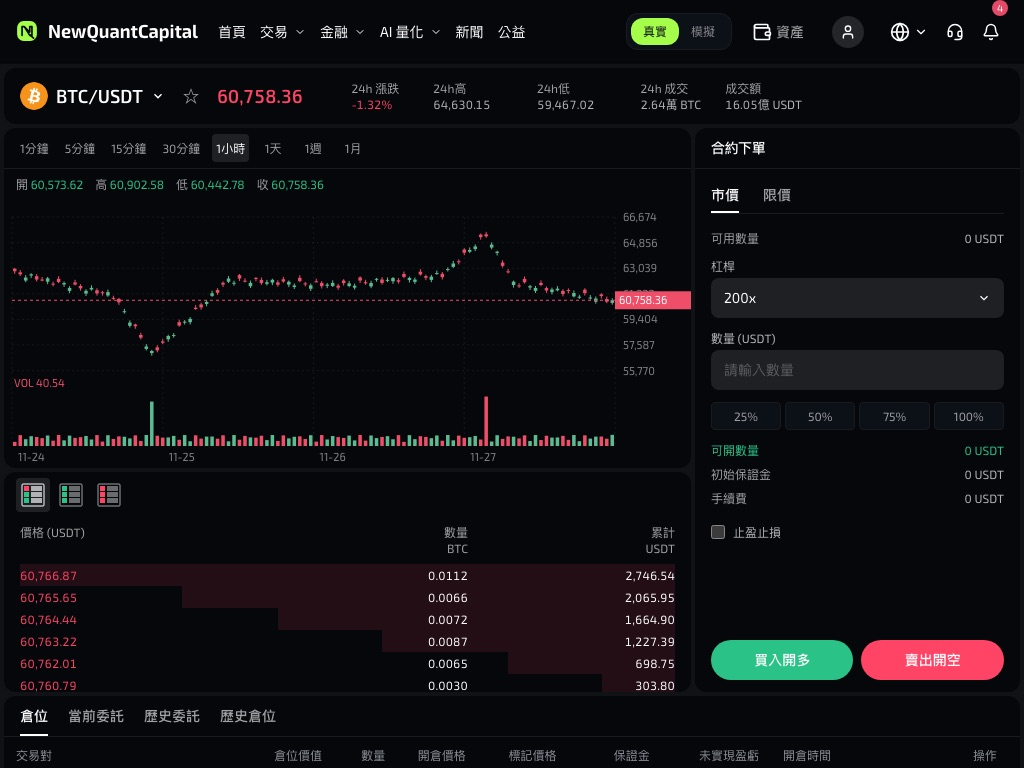
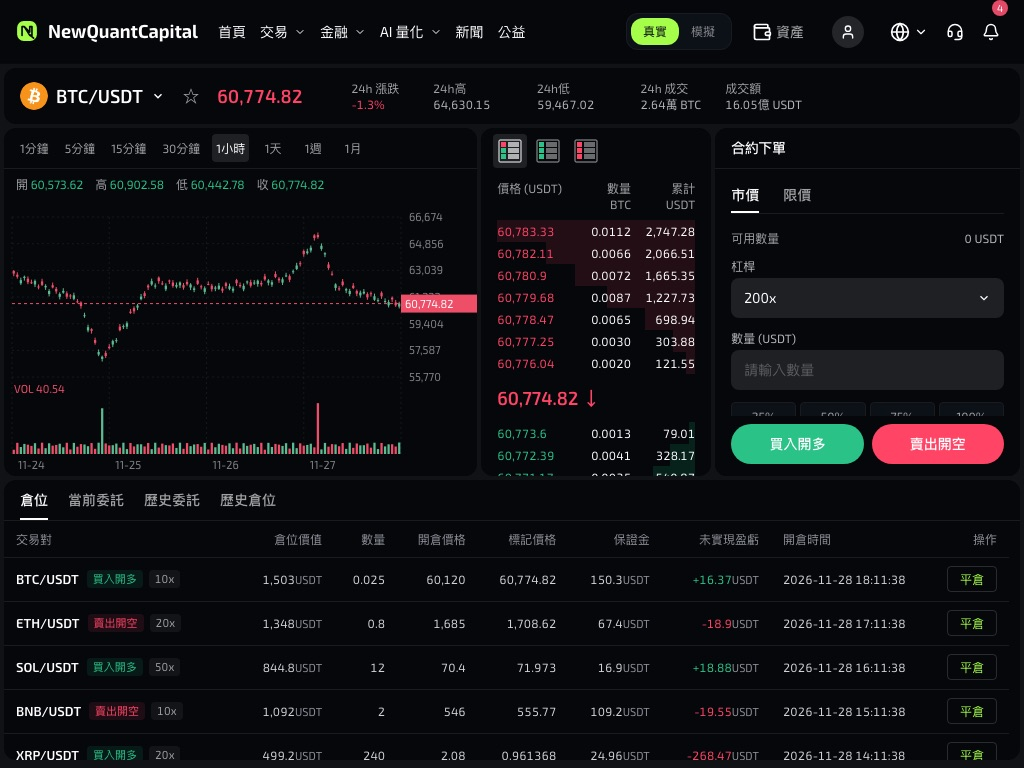
feat(site): 横屏平板（1024–1199px）交易页改为三列，记录区首屏可见
图表 | 订单簿 230px | 下单面板（≥300px）并排，信息栏与记录区通栏；记录区至少 260px 并填满剩余高度，图表行为视口 − 420px（320–560px）。竖屏平板、手机与 PC 不变。同步更新布局文档、1024×768 截图、产品文档平板说明与 AGENTS.md。

diff --git a/newtrend-website/src/styles/trade-workspace.css b/newtrend-website/src/styles/trade-workspace.css
@@ -257,6 +257,22 @@
  .product-terminal.with-pairs .records-panel{grid-column:1/-1;grid-row:3;contain:size}
 }
 @media(min-width:1200px) and (max-width:1599px){.product-terminal.with-pairs .instrument-stats{gap:16px}}
+/* Landscape tablet (1024–1199px, user request 2026-11-28 "横屏平板用三列"): the desktop arrangement without the pair
+   panel. Instrument bar full width (its pair button still opens the pair drawer), then chart | order book (230px) |
+   order form (≥300px), records full width below. Mirrors the ≥1200px rows: records get at least 260px (≈280px at
+   768px tall) and fill the viewport below the 64px site header; the chart row is viewport − 420px (320–560px).
+   Portrait tablets (768–1023px) keep the stacked grid. */
+@media(min-width:1024px) and (max-width:1199px){
+ .product-terminal:not(.compact){display:grid;grid-template-columns:minmax(0,1fr) 230px minmax(300px,30%);grid-template-rows:auto clamp(320px,calc(100vh - 420px),560px) minmax(260px,1fr);grid-template-rows:auto clamp(320px,calc(100dvh - 420px),560px) minmax(260px,1fr);min-height:calc(100vh - 64px);min-height:calc(100dvh - 64px);gap:4px;align-content:stretch}
+ .product-terminal:not(.compact) .workspace-grid{display:contents}
+ .product-terminal:not(.compact) .instrument-bar{grid-column:1/-1;grid-row:1;margin-bottom:0}
+ .product-terminal:not(.compact) .chart-panel{grid-column:1;grid-row:2}
+ /* contain:size: panels fill their row but never size it (same as the desktop grid). */
+ .product-terminal:not(.compact) .orderbook{grid-column:2;grid-row:2;contain:size}
+ .product-terminal:not(.compact) .order-panel{grid-column:3;grid-row:2;contain:size}
+ .product-terminal:not(.compact) .records-panel{grid-column:1/-1;grid-row:3;contain:size}
+}
+
 /* Desktop/tablet book cells stay on one line (user report 2026-11-28): numbers never break mid-value; the full value
    is still in the DOM if a very long one is clipped. */
 @media(min-width:768px){.product-terminal:not(.compact) .book-row>span{overflow-wrap:normal;white-space:nowrap;overflow:hidden;text-overflow:ellipsis;min-width:0}.product-terminal:not(.compact) .book-head,.product-terminal:not(.compact) .book-row{grid-template-columns:minmax(0,1.2fr) minmax(0,1fr) minmax(0,1fr)}}

diff --git a/newtrend-website/AGENTS.md b/newtrend-website/AGENTS.md
@@ -434,7 +434,7 @@ Picker overlays close on a backdrop tap (user decision, 2026-11-27): the mobile 
 
 ## Desktop trading pair panel (user decision, 2026-11-28)
 
-From 1200px up, the futures (合約交易), delivery (二元期權) and spot pages show a pair list panel on the far left beside the chart (user reference): search, favourites star + 全部 + our trading catalogue categories (加密貨幣, 外匯, 貴金屬, 能源 …), sortable 交易對·成交額 / 價格·漲跌幅 headers and star + icon + name/turnover + price/change rows; the current pair has a background, clicking a row switches pair and keeps the product. The reference's 合約/期權/現貨 tabs are not built; the existing product switch stays. Only the layout follows the reference: every panel keeps our own content. The instrument bar spans only the pair panel and chart; the order book and order form rise to the top of the page beside it (the page is the grid, `.with-pairs`, `workspace-grid` is `display:contents`); records keep the full width below. The list is one shared component, `components/trading/PairList.vue` (variant `panel` here, `drawer` in the phone drawer `overlay/MarketPicker.vue`); its root classes are `pair-list-panel` / `pair-list-drawer` (never a bare `drawer`/`panel`, which collide with global overlay classes). Below 1200px the layout does not change: tablet keeps the old grid, phones (≤767px) keep the compact layout (user: PC only, do not change mobile). The instrument-bar pair follows the reference too: from 1200px up it is plain icon + name (not clickable; the panel is the picker), on tablet (768–1199px) it is a button with a caret that opens the same left pair drawer as the phone (`market-picker`), replacing the old dropdown; phones are unchanged. Breakpoint constant: `PAIR_PANEL_QUERY` in `composables/useMediaQuery.js`, mirrored in `styles/trade-workspace.css`. The two spanning panels and the records panel use `contain:size` so content never stretches a row. Row proportions follow the reference (user request 2026-11-28): the chart row is viewport − 452px (400–640px), records get at least 300px and fill the rest of the viewport below the 64px site header (≈312px at 900px tall; the record list scrolls inside); on viewports shorter than about 840px the page scrolls to reach the bottom of the records. The instrument bar is 56px on desktop and tablet, measured read-only on newtrendcapital.com/zh-TW/trade (user request 2026-11-28): 12px side padding, 18/28 pair and price, 28px coin, favourite 28×32 with a 16px star (44px on coarse pointers), each 24h stat a 12/16 label directly over a 12/16 value (32px). Phones keep their header. Sizes per screen: `docs/designs/2026-11-28-trading-responsive-layout.md`. The 24h stats are right-aligned at the end of the instrument bar (auto margin, so their sideways scroll still works). On desktop and tablet the instrument bar reserves fixed widths for the live price (11ch) and the change / 24h high / 24h low values, so the stats to the right never shift as the price ticks (user decision, 2026-11-28). With the pair panel, narrow desktop widths must not wrap (user report 2026-11-28): the category tabs stay on one row (they fit at the panel's 256px minimum; extra categories scroll sideways with wheel support and a right fade), and the instrument bar stays one line: the 24h stats gap is 16px below 1600px and, if they still do not fit (about 1200–1300px), they scroll sideways with wheel support and a right fade instead of wrapping under the pair. On desktop and tablet the order book's cells stay on one line, and 累計 (a USDT running total) shows 2 decimals from 1 up, at most 4 decimals below 1, and `<0.0001` for smaller totals (not the price formatter's 8 decimals).
+From 1200px up, the futures (合約交易), delivery (二元期權) and spot pages show a pair list panel on the far left beside the chart (user reference): search, favourites star + 全部 + our trading catalogue categories (加密貨幣, 外匯, 貴金屬, 能源 …), sortable 交易對·成交額 / 價格·漲跌幅 headers and star + icon + name/turnover + price/change rows; the current pair has a background, clicking a row switches pair and keeps the product. The reference's 合約/期權/現貨 tabs are not built; the existing product switch stays. Only the layout follows the reference: every panel keeps our own content. The instrument bar spans only the pair panel and chart; the order book and order form rise to the top of the page beside it (the page is the grid, `.with-pairs`, `workspace-grid` is `display:contents`); records keep the full width below. The list is one shared component, `components/trading/PairList.vue` (variant `panel` here, `drawer` in the phone drawer `overlay/MarketPicker.vue`); its root classes are `pair-list-panel` / `pair-list-drawer` (never a bare `drawer`/`panel`, which collide with global overlay classes). Below 1200px: landscape tablets (1024–1199px, user request 2026-11-28 "横屏平板用三列") use the desktop arrangement without the pair panel (CSS only, `.product-terminal:not(.compact)` grid): full-width instrument bar, chart | order book 230px | order form 30% (min 300px; fields scroll, actions pinned), records full width ≥260px filling the viewport (chart row viewport − 420px, 320–560px), so records are on the first screen; portrait tablets (768–1023px) keep the stacked grid and phones (≤767px) the compact layout (user: do not change mobile). No 最新成交 tab and no phone layout on portrait tablets (not approved). Spot follows the same rules (its separate tablet grid and market list are gone). The instrument-bar pair follows the reference too: from 1200px up it is plain icon + name (not clickable; the panel is the picker), on tablet (768–1199px) it is a button with a caret that opens the same left pair drawer as the phone (`market-picker`), replacing the old dropdown; phones are unchanged. Breakpoint constant: `PAIR_PANEL_QUERY` in `composables/useMediaQuery.js`, mirrored in `styles/trade-workspace.css`. The two spanning panels and the records panel use `contain:size` so content never stretches a row. Row proportions follow the reference (user request 2026-11-28): the chart row is viewport − 452px (400–640px), records get at least 300px and fill the rest of the viewport below the 64px site header (≈312px at 900px tall; the record list scrolls inside); on viewports shorter than about 840px the page scrolls to reach the bottom of the records. The instrument bar is 56px on desktop and tablet, measured read-only on newtrendcapital.com/zh-TW/trade (user request 2026-11-28): 12px side padding, 18/28 pair and price, 28px coin, favourite 28×32 with a 16px star (44px on coarse pointers), each 24h stat a 12/16 label directly over a 12/16 value (32px). Phones keep their header. Sizes per screen: `docs/designs/2026-11-28-trading-responsive-layout.md`. The 24h stats are right-aligned at the end of the instrument bar (auto margin, so their sideways scroll still works). On desktop and tablet the instrument bar reserves fixed widths for the live price (11ch) and the change / 24h high / 24h low values, so the stats to the right never shift as the price ticks (user decision, 2026-11-28). With the pair panel, narrow desktop widths must not wrap (user report 2026-11-28): the category tabs stay on one row (they fit at the panel's 256px minimum; extra categories scroll sideways with wheel support and a right fade), and the instrument bar stays one line: the 24h stats gap is 16px below 1600px and, if they still do not fit (about 1200–1300px), they scroll sideways with wheel support and a right fade instead of wrapping under the pair. On desktop and tablet the order book's cells stay on one line, and 累計 (a USDT running total) shows 2 decimals from 1 up, at most 4 decimals below 1, and `<0.0001` for smaller totals (not the price formatter's 8 decimals).
 
 ## Trading page structure (review refactor, 2026-11-28)
 

diff --git a/docs/designs/2026-11-28-trading-responsive-layout.md b/docs/designs/2026-11-28-trading-responsive-layout.md
@@ -7,11 +7,12 @@
 | 端 | 宽度范围 | 布局要点 |
 |---|---|---|
 | 手机 | ≤ 767px | App 式紧凑布局：隐藏站点页头，下单表单与订单簿左右并排，记录为卡片，底部标签栏 |
-| 平板 | 768 – 1199px | 原有网格：图表与下单面板并排，订单簿在图表下方，记录通栏；点交易对名称打开左侧交易对抽屉 |
+| 竖屏平板 | 768 – 1023px | 原有网格：图表与下单面板并排，订单簿在图表下方，记录通栏；点交易对名称打开左侧交易对抽屉 |
+| 横屏平板 | 1024 – 1199px | 三列：信息栏通栏，下面图表 \| 订单簿 \| 下单面板并排，记录区通栏在底部且首屏可见；点交易对名称打开左侧交易对抽屉 |
 | PC | ≥ 1200px | 左侧常驻交易对列表 + 图表，订单簿与下单面板顶到页面最上方，记录区通栏在底部 |
 | PC 细分 | 1200 – 1599px | 同 PC，顶部 24h 数据间距收窄为 16px；放不下时横向滚动，不换行 |
 
-断点常量：`PAIR_PANEL_QUERY`（1200px）与 `COMPACT_TRADE_QUERY`（767px），见 `newtrend-website/src/composables/useMediaQuery.js`，样式同步在 `styles/trade-workspace.css`。
+断点常量：`PAIR_PANEL_QUERY`（1200px）与 `COMPACT_TRADE_QUERY`（767px），见 `newtrend-website/src/composables/useMediaQuery.js`，样式同步在 `styles/trade-workspace.css`。1024px 的横屏平板三列只在样式里切换（组件与竖屏平板相同）。
 
 ## 二、PC（≥ 1200px）
 
@@ -79,15 +80,39 @@
 
 ## 三、平板（768 – 1199px）
 
-![平板 1024×768](trading-layout/futures-1024x768.jpg)
+两个平板区间的交易对选择相同：信息栏里的交易对名称带下拉箭头，点击打开左侧交易对抽屉（与手机共用）。合約、二元期權、現貨三页规则一致（現貨早已不再有单独的平板网格和行情列表，选交易对一律通过抽屉）。
+
+### 横屏平板（1024 – 1199px，2026-11-28「横屏平板用三列」）
+
+![横屏平板 1024×768](trading-layout/futures-1024x768.jpg)
+
+即 PC 布局去掉左侧交易对列表。
 
 | 区域 | 规则 |
 |---|---|
-| 交易对选择 | 信息栏里的交易对名称带下拉箭头，点击打开左侧交易对抽屉（与手机共用） |
+| 信息栏 | 通栏，56px |
+| 第 1 列 | 图表，剩余宽度 |
+| 第 2 列 | 订单簿，230px |
+| 第 3 列 | 下单面板，页宽 30%，最少 300px；字段在面板内滚动，買入 / 賣出按钮固定在底部 |
+| 图表行高 | 视口高度 − 420px，最小 320px，最大 560px |
+| 记录区 | 通栏，最少 260px，填满剩余高度（常见尺寸约 280px），列表在区内滚动 |
+
+| 屏幕尺寸 | 图表行 | 记录区 | 一屏能否放下 |
+|---|---|---|---|
+| 1024×768 | 348px | 280px | 能 |
+| 1100×800 | 380px | 280px | 能 |
+| 1180×820 | 400px | 280px | 能 |
+
+视口高度低于约 740px 时图表行停在最小值，记录区开始变矮；低于约 720px（记录区到 260px）页面才略微滚动。
+
+### 竖屏平板（768 – 1023px，保持不变）
+
+| 区域 | 规则 |
+|---|---|
 | 图表 | 左列第 1 行 |
 | 下单面板 | 右列（页宽 32%，最少 280px），纵跨第 1 – 2 行 |
 | 订单簿 | 左列第 2 行，图表下方 |
-| 记录区 | 通栏在最下方 |
+| 记录区 | 通栏在最下方（1023×768 时首屏只露出标签行，需向下滚动） |
 
 ## 四、手机（≤ 767px）
 

diff --git a/docs/product/trading-panel.md b/docs/product/trading-panel.md
@@ -153,6 +153,15 @@
 
 ---
 
+## 4.5 平板
+
+- **横屏平板（1024 – 1199px）**：与 PC 相同的三列（图表 | 订单簿 | 下单面板），去掉左侧交易对列表；信息栏通栏，记录区通栏在底部，首屏可见。
+- **竖屏平板（768 – 1023px）**：图表与下单面板并排，订单簿在图表下方，记录区在最下方。
+- 两者都通过点击信息栏里的交易对名称打开左侧交易对抽屉（与手机共用）；订单簿、下单面板和记录区的功能与 PC 相同。
+- 详细尺寸见 `docs/designs/2026-11-28-trading-responsive-layout.md`。
+
+---
+
 ## 5. 手机端
 
 <table>
